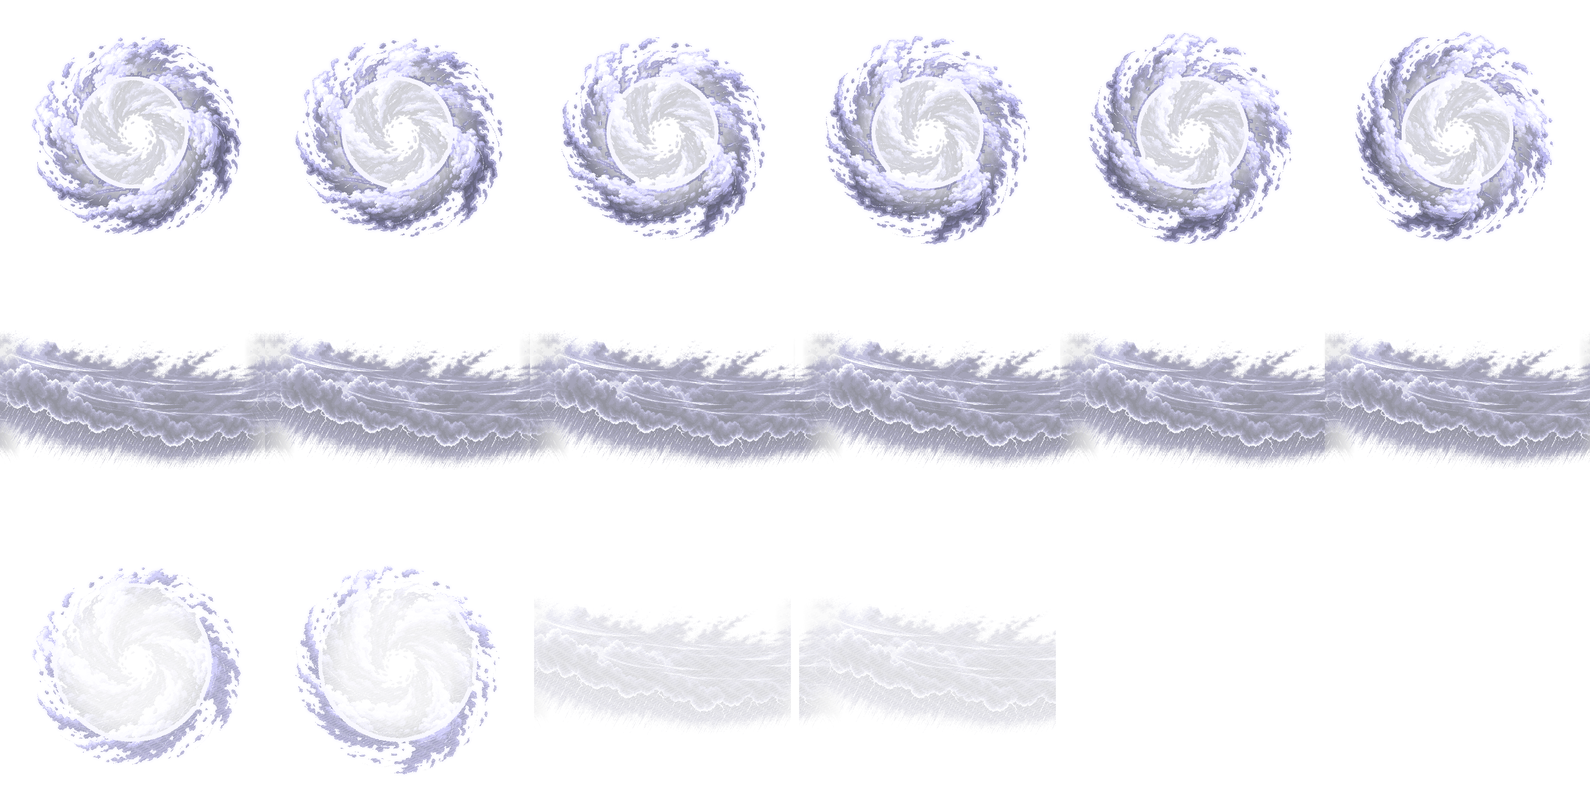
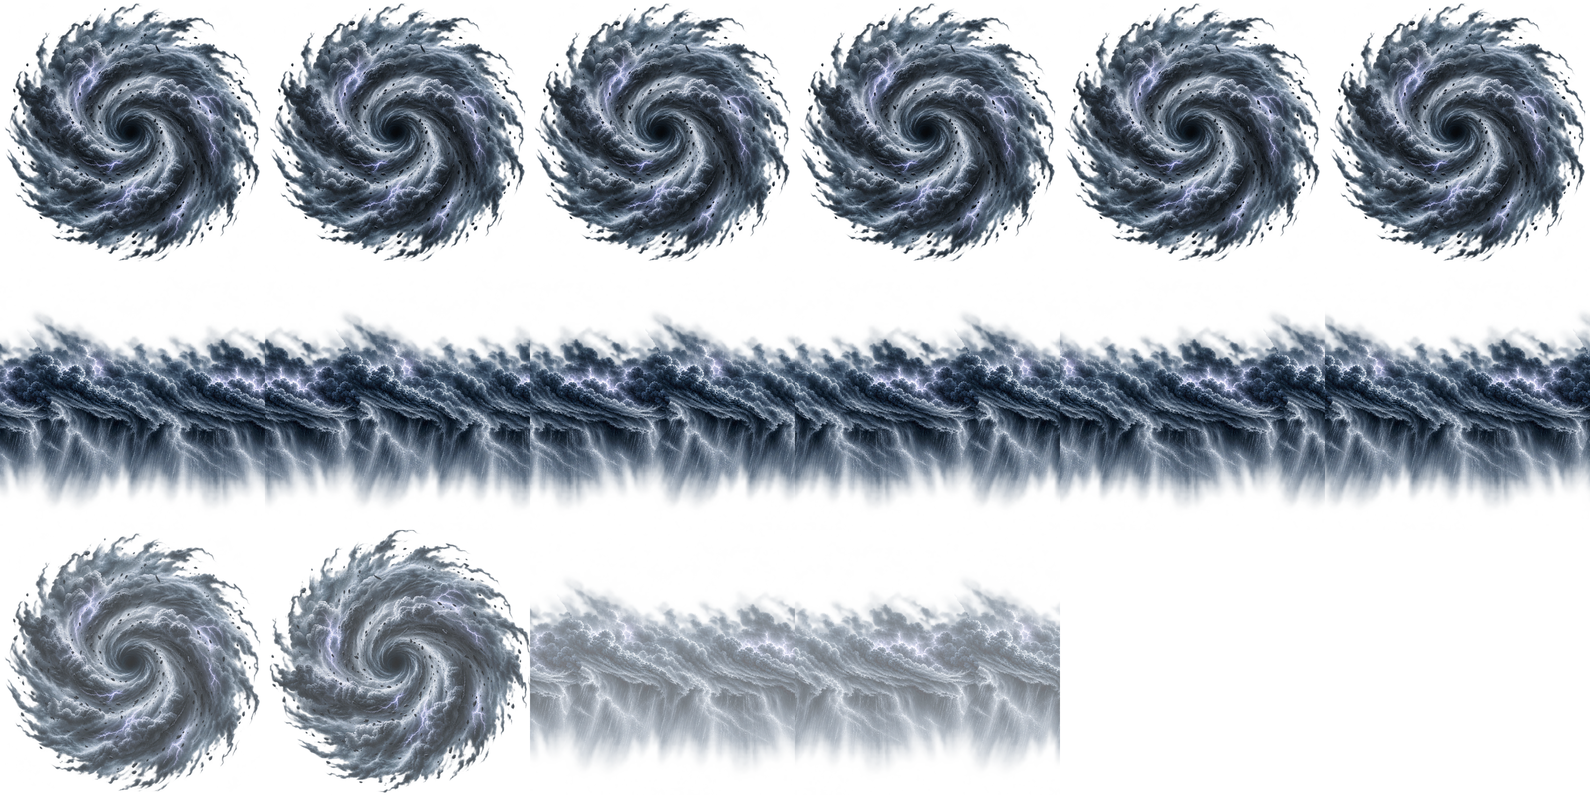
Storm landmarks and hazard sheet restyle: asymmetric lit anvil thunderheads, weathered steel masts, skyhooks, refineries, docks, gantry, turbine raft and relay dish, top-down tornado vortex and squall front, all painted by Codex

diff --git a/Pause/Assets/Art/Worlds/Storm/backdrop_v4~/restyle_landmarks/src~/build_lm_haz.py b/Pause/Assets/Art/Worlds/Storm/backdrop_v4~/restyle_landmarks/src~/build_lm_haz.py
@@ -1,0 +1,138 @@
+"""Storm landmarks + hazard sheet build: slices Codex's painted sheets into the existing atlas cells (JSON untouched). Layout/fit/loop
+(rotate, roll, wrap-cut) only; every pixel of art comes from Codex.
+
+    python3 build_lm_haz.py <src~ dir> <Backdrop3 dir>
+"""
+import sys, json
+from pathlib import Path
+import numpy as np
+from PIL import Image
+
+SRC = Path(sys.argv[1]); DST = Path(sys.argv[2])
+
+def load(name):
+    im = Image.open(SRC / (name + ".png")).convert("RGBA")
+    return np.asarray(im).astype(np.float32) / 255
+
+def to_img(a):
+    return Image.fromarray(np.rint(np.clip(a, 0, 1) * 255).astype(np.uint8), "RGBA")
+
+def cells(a, cols, rows):
+    h, w = a.shape[:2]; ch, cw = h // rows, w // cols
+    return [a[r * ch:(r + 1) * ch, c * cw:(c + 1) * cw] for r in range(rows) for c in range(cols)]
+
+def bbox(a, thr=.06):
+    ys, xs = np.where(a[..., 3] > thr)
+    return ys.min(), ys.max() + 1, xs.min(), xs.max() + 1
+
+def scaled(a, s):
+    im = to_img(a)
+    return im.resize((max(1, round(im.width * s)), max(1, round(im.height * s))), Image.LANCZOS)
+
+def fit(c, w, h, margin=.05):
+    y0, y1, x0, x1 = bbox(c); t = c[y0:y1, x0:x1]
+    s = min(w * (1 - margin) / t.shape[1], h * (1 - margin) / t.shape[0])
+    return scaled(t, s)
+
+def put_center(sheet, im, cx, cy):
+    sheet.alpha_composite(im, (int(round(cx - im.width / 2)), int(round(cy - im.height / 2))))
+
+def despeckle(c, k=6, keep=.04):
+    """Drop stray fragments (bits of the neighbouring cell, loose specks): connected pieces under `keep` of the biggest one's mass are removed."""
+    a = c[..., 3] > .06; h, w = a.shape; gh, gw = h // k, w // k
+    g = a[:gh * k, :gw * k].reshape(gh, k, gw, k).any((1, 3))
+    lab = np.zeros((gh, gw), np.int32); sizes = [0]; n = 0
+    for y in range(gh):
+        for x in range(gw):
+            if g[y, x] and lab[y, x] == 0:
+                n += 1; stack = [(y, x)]; lab[y, x] = n; cnt = 0
+                while stack:
+                    cy, cx = stack.pop(); cnt += 1
+                    for dy in (-1, 0, 1):
+                        for dx in (-1, 0, 1):
+                            ny, nx = cy + dy, cx + dx
+                            if 0 <= ny < gh and 0 <= nx < gw and g[ny, nx] and lab[ny, nx] == 0:
+                                lab[ny, nx] = n; stack.append((ny, nx))
+                sizes.append(cnt)
+    if n < 2: return c
+    big = max(sizes[1:]); good = np.zeros(n + 1, bool)
+    for i in range(1, n + 1): good[i] = sizes[i] >= keep * big
+    m = good[lab]
+    m = np.kron(m, np.ones((k, k), bool)); full = np.zeros((h, w), bool); full[:m.shape[0], :m.shape[1]] = m
+    # grow the kept region by one block so soft edges survive
+    from numpy import roll
+    grown = full.copy()
+    for s in (k, -k):
+        grown |= np.roll(full, s, 0) | np.roll(full, s, 1)
+    out = c.copy(); out[..., 3] *= grown
+    return out
+
+def fill_landmarks():
+    j = json.load(open(DST / "landmarks.json")); sheet = Image.open(DST / "landmarks.png").convert("RGBA"); H = sheet.height
+    by = {s["n"]: s for s in j["sprites"]}
+    maps = {"lm_anvils": ["anvil_tower_00", "anvil_tower_01", "anvil_tower_02", "anvil_tower_03"],
+            "lm_masts": ["spire_00", "spire_01", "skyhook_00", "skyhook_01"],
+            "lm_refineries": ["refinery_float_00", "refinery_float_01", "refinery_float_02", "siphon_tower_00"],
+            "lm_docks": ["airship_dock_00", "gantry_00", "turbine_raft_00", "relay_dish_00"]}
+    for sname, names in maps.items():
+        if not (SRC / (sname + ".png")).exists():
+            print("missing", sname); continue
+        for n, c in zip(names, [despeckle(x) for x in cells(load(sname), 2, 2)]):
+            s = by[n]; box = (s["x"], H - s["y"] - s["h"], s["x"] + s["w"], H - s["y"])
+            sheet.paste((0, 0, 0, 0), box)
+            if n.startswith("spire_"):
+                # StormTuning.RodTipY: the rod's tip (topmost solid point) sits at (128, 40) from the cell top, nothing above y=18
+                y0, y1, x0, x1 = bbox(c); core = np.where(c[..., 3] > .5); ty = core[0].min(); tx = int(np.median(core[1][core[0] < ty + 6]))
+                sc = (s["h"] - 8 - 40) / max(1, y1 - ty)
+                t = c[ty:y1, x0:x1]; im = scaled(t, sc); left = 128 - round((tx - x0) * sc)
+                im = im.crop((max(0, -left), 0, min(im.width, s["w"] - left), im.height))
+                cell = Image.new("RGBA", (s["w"], s["h"])); cell.alpha_composite(im, (max(0, left), 40)); sheet.alpha_composite(cell, box[:2]); continue
+            im = fit(c, s["w"], s["h"]); put_center(sheet, im, s["x"] + s["w"] / 2, H - s["y"] - s["h"] / 2)
+    sheet.save(DST / "landmarks.png")
+
+def min_cut(err):
+    O, L = err.shape; cost = np.empty_like(err, dtype=np.float64); cost[:, 0] = err[:, 0]
+    for i in range(1, L):
+        p = cost[:, i - 1]
+        cost[:, i] = err[:, i] + np.minimum(p, np.minimum(np.concatenate(([np.inf], p[:-1])), np.concatenate((p[1:], [np.inf]))))
+    r = np.empty(L, np.int32); r[-1] = int(np.argmin(cost[:, -1]))
+    for i in range(L - 2, -1, -1):
+        jj = r[i + 1]; lo, hi = max(0, jj - 1), min(O, jj + 2); r[i] = lo + int(np.argmin(cost[lo:hi, i]))
+    return r
+
+def wrap_tile(a, size=1024, ov=200):
+    """Make a horizontally seamless size x size RGBA tile from a (size+ov) wide crop, cutting along a min-error path."""
+    h, w = a.shape[:2]; y0 = (h - size) // 2; x0 = (w - size - ov) // 2
+    c = a[y0:y0 + size, x0:x0 + size + ov]
+    left = c[:, :ov]; extra = c[:, size:size + ov]
+    err = np.abs(left - extra).sum(-1).T; k = np.ones(5, np.float32) / 5
+    err = np.apply_along_axis(lambda v: np.convolve(v, k, "same"), 1, err)
+    r = min_cut(err); cols = np.arange(ov)[None, :]
+    strip = np.where((cols < r[:, None])[..., None], extra, left)
+    out = c[:, :size].copy(); out[:, :ov] = strip
+    return out
+
+def fill_hazard():
+    swirl_p, front_p = SRC / "hz_swirl.png", SRC / "hz_front.png"
+    sheet = Image.open(DST / "wx_hazard.png").convert("RGBA")
+    def put(r, c, im): 
+        box = (c * 512, r * 512, c * 512 + 512, r * 512 + 512); sheet.paste((0, 0, 0, 0), box); sheet.alpha_composite(im, box[:2])
+    if swirl_p.exists():
+        a = load("hz_swirl"); y0, y1, x0, x1 = bbox(a); t = to_img(a[y0:y1, x0:x1]); s = 500 / max(t.width, t.height)
+        t = t.resize((round(t.width * s), round(t.height * s)), Image.LANCZOS)
+        cell = Image.new("RGBA", (512, 512)); cell.alpha_composite(t, ((512 - t.width) // 2, (512 - t.height) // 2))
+        for col in range(6): put(0, col, cell)            # the game turns the body itself; the loop frames are the same painting
+        for col in (0, 1):                                  # warning cells: the gathering vortex, fainter, two turns
+            w = cell.rotate(30 * col, resample=Image.BICUBIC); arr = np.asarray(w).astype(np.float32) / 255; arr[..., 3] *= .8
+            put(2, col, to_img(arr))
+    if front_p.exists():
+        a = load("hz_front"); tile = wrap_tile(a)
+        tile = np.asarray(to_img(tile).resize((512, 512), Image.LANCZOS)).astype(np.float32) / 255
+        for col in range(6):
+            put(1, col, to_img(np.roll(tile, round(col * 512 / 6), axis=1)))        # a drifting loop: the tile wraps seamlessly
+        for col in (2, 3):
+            arr = np.roll(tile, round((col - 2) * 256), axis=1).copy(); arr[..., 3] *= .55; put(2, col, to_img(arr))
+    sheet.save(DST / "wx_hazard.png")
+
+if __name__ == "__main__":
+    fill_landmarks(); fill_hazard()

diff --git a/Pause/Assets/Art/Worlds/Storm/backdrop_v4~/restyle_landmarks/src~/prompt_lm_anvils.md b/Pause/Assets/Art/Worlds/Storm/backdrop_v4~/restyle_landmarks/src~/prompt_lm_anvils.md
@@ -1,0 +1,9 @@
+You are making ONE game-art sheet for "Pause", a vertical phone-portrait 2D shooter, STORM world (a gas-giant thunderstorm flown at atmosphere level, looking down from above). Use your built-in image generation tool for the painted content. Paint ONE SQUARE image as large as the tool allows (about 1254x1254) and save it to the exact output path at the end. Do not edit any other file, do not commit, do not delete anything.
+
+STYLE (important): real, moody, physically believable, painterly hi-res pixel-art-grade with true texture, believable materials, local light from real sources, atmospheric depth. Reference images: s1_supercell (the approved cloud look), new_storm_weather (the approved new weather sprite look), ember_landmarks and verdant_landmarks (the approved landmark style bar from other worlds: believable materials and lighting, no outlines). The reference "OLD_*_do_not_copy" is the look being REPLACED (flat, symmetrical, lumpy navy blobs, cartoon silhouettes, soft outlines): do NOT copy it. Palette: cool desaturated steel-blue, slate, teal-grey, dark graphite metal, white, with pale violet-white lightning glow. NO orange, gold, amber, brass, brown rim light. NO pink or magenta, no red, no green. No outlines or borders.
+
+LAYOUT RULE: the image is a grid; each cell contains ONE separate element, centred in its cell with at least 8 percent empty margin on all sides, nothing touching the cell borders, no grid lines, no labels, no text, no frames, no ground plane, no cast background. Background: genuinely TRANSPARENT (real alpha), nothing behind the elements. Every element in a sheet must have a clearly DIFFERENT silhouette, size and design: never repeat a shape.
+
+LANDMARK SHEET 1 (2x2 grid, 4 cells): four different towering ANVIL THUNDERHEAD storm cells, each seen in an oblique aerial three-quarter view from above, standing as huge solitary storm towers rising from the cloud sea. They must read as real cumulonimbus: a tall churning convective column with an overshooting dome, a wide sheared anvil spreading out at the top and streaming downwind, hard lit tops and deep shadowed undersides, soft noisy irregular edges, lightning flickering INSIDE the cloud mass (cool white and pale violet-white glow through the cloud), and a dark shaft of rain falling from the base. Each one different: (1) a classic tall anvil leaning right with a long sheared spread, (2) a cluster of overshooting domes merging into a lopsided broken anvil, (3) a narrow very tall tower with a torn thin anvil and a strike glowing deep inside, (4) a squat wide shelf-cloud thunderhead with mammatus pouches under the anvil and heavy rain curtains. Asymmetric, NOT mushroom shaped, NOT symmetric, NOT lumpy blobs.
+
+Output: write the final PNG to /Users/sina/Developer/Pause/.claude/ws-storm-hazlm/Pause/Assets/Art/Worlds/Storm/backdrop_v4~/restyle_landmarks/src~/lm_anvils.png

diff --git a/Pause/Assets/Art/Worlds/Storm/backdrop_v4~/restyle_landmarks/src~/prompt_hz_swirl.md b/Pause/Assets/Art/Worlds/Storm/backdrop_v4~/restyle_landmarks/src~/prompt_hz_swirl.md
@@ -1,0 +1,9 @@
+You are making ONE game-art sheet for "Pause", a vertical phone-portrait 2D shooter, STORM world (a gas-giant thunderstorm flown at atmosphere level, looking down from above). Use your built-in image generation tool for the painted content. Paint ONE SQUARE image as large as the tool allows (about 1254x1254) and save it to the exact output path at the end. Do not edit any other file, do not commit, do not delete anything.
+
+STYLE (important): real, moody, physically believable, painterly hi-res pixel-art-grade with true texture, believable materials, local light from real sources, atmospheric depth. Reference images: s1_supercell (the approved cloud look), new_storm_weather (the approved new weather sprite look), ember_landmarks and verdant_landmarks (the approved landmark style bar from other worlds: believable materials and lighting, no outlines). The reference "OLD_*_do_not_copy" is the look being REPLACED (flat, symmetrical, lumpy navy blobs, cartoon silhouettes, soft outlines): do NOT copy it. Palette: cool desaturated steel-blue, slate, teal-grey, dark graphite metal, white, with pale violet-white lightning glow. NO orange, gold, amber, brass, brown rim light. NO pink or magenta, no red, no green. No outlines or borders.
+
+LAYOUT RULE: the image is a grid; each cell contains ONE separate element, centred in its cell with at least 8 percent empty margin on all sides, nothing touching the cell borders, no grid lines, no labels, no text, no frames, no ground plane, no cast background. Background: genuinely TRANSPARENT (real alpha), nothing behind the elements. Every element in a sheet must have a clearly DIFFERENT silhouette, size and design: never repeat a shape.
+
+TORNADO VORTEX (single element, centred, filling about 90 percent of the square): a realistic TOP-DOWN view of a violent tornado or cyclone vortex seen from straight above: a dark calm eye in the centre, tight spiral arms of dark storm cloud and wind-torn debris spiralling in, ragged soft noisy outer arms thinning to transparent at the edge (no hard circle edge, no ring outline), subtle cool white and pale violet-white lightning veins glowing inside the arms, steel-blue and slate colours, volumetric, ~12 percent of arms catching cool pale light. It must be roughly circular and fade to fully transparent before the edge of the image. It will be rotated by the game, so spiral arms must read in any orientation.
+
+Output: write the final PNG to /Users/sina/Developer/Pause/.claude/ws-storm-hazlm/Pause/Assets/Art/Worlds/Storm/backdrop_v4~/restyle_landmarks/src~/hz_swirl.png

diff --git a/Pause/Assets/Art/Worlds/Storm/backdrop_v4~/restyle_landmarks/src~/prompt_lm_masts.md b/Pause/Assets/Art/Worlds/Storm/backdrop_v4~/restyle_landmarks/src~/prompt_lm_masts.md
@@ -1,0 +1,9 @@
+You are making ONE game-art sheet for "Pause", a vertical phone-portrait 2D shooter, STORM world (a gas-giant thunderstorm flown at atmosphere level, looking down from above). Use your built-in image generation tool for the painted content. Paint ONE SQUARE image as large as the tool allows (about 1254x1254) and save it to the exact output path at the end. Do not edit any other file, do not commit, do not delete anything.
+
+STYLE (important): real, moody, physically believable, painterly hi-res pixel-art-grade with true texture, believable materials, local light from real sources, atmospheric depth. Reference images: s1_supercell (the approved cloud look), new_storm_weather (the approved new weather sprite look), ember_landmarks and verdant_landmarks (the approved landmark style bar from other worlds: believable materials and lighting, no outlines). The reference "OLD_*_do_not_copy" is the look being REPLACED (flat, symmetrical, lumpy navy blobs, cartoon silhouettes, soft outlines): do NOT copy it. Palette: cool desaturated steel-blue, slate, teal-grey, dark graphite metal, white, with pale violet-white lightning glow. NO orange, gold, amber, brass, brown rim light. NO pink or magenta, no red, no green. No outlines or borders.
+
+LAYOUT RULE: the image is a grid; each cell contains ONE separate element, centred in its cell with at least 8 percent empty margin on all sides, nothing touching the cell borders, no grid lines, no labels, no text, no frames, no ground plane, no cast background. Background: genuinely TRANSPARENT (real alpha), nothing behind the elements. Every element in a sheet must have a clearly DIFFERENT silhouette, size and design: never repeat a shape.
+
+LANDMARK SHEET 2 (2x2 grid, 4 cells): cells 1-2: two different LIGHTNING-ROD MASTS: tall slender weathered dark steel lattice masts on a small floating platform, with a pale violet-white corona glowing at the tip (St Elmo's fire), guy wires, a few small lit windows (pale cool white) and storm wear; different heights and shapes. Cells 3-4: two different SKYHOOK anchors: a large floating balloon-borne mooring anchor with a heavy steel hook and cables dangling, lit by a few cool white lamps, one with three envelopes and one with a single big envelope; weathered, asymmetric. Oblique aerial three-quarter view from above. Cool steel and slate metal, no orange or brass.
+
+Output: write the final PNG to /Users/sina/Developer/Pause/.claude/ws-storm-hazlm/Pause/Assets/Art/Worlds/Storm/backdrop_v4~/restyle_landmarks/src~/lm_masts.png

diff --git a/Pause/Assets/Art/Worlds/Storm/backdrop_v4~/restyle_landmarks/src~/prompt_hz_front.md b/Pause/Assets/Art/Worlds/Storm/backdrop_v4~/restyle_landmarks/src~/prompt_hz_front.md
@@ -1,0 +1,9 @@
+You are making ONE game-art sheet for "Pause", a vertical phone-portrait 2D shooter, STORM world (a gas-giant thunderstorm flown at atmosphere level, looking down from above). Use your built-in image generation tool for the painted content. Paint ONE SQUARE image as large as the tool allows (about 1254x1254) and save it to the exact output path at the end. Do not edit any other file, do not commit, do not delete anything.
+
+STYLE (important): real, moody, physically believable, painterly hi-res pixel-art-grade with true texture, believable materials, local light from real sources, atmospheric depth. Reference images: s1_supercell (the approved cloud look), new_storm_weather (the approved new weather sprite look), ember_landmarks and verdant_landmarks (the approved landmark style bar from other worlds: believable materials and lighting, no outlines). The reference "OLD_*_do_not_copy" is the look being REPLACED (flat, symmetrical, lumpy navy blobs, cartoon silhouettes, soft outlines): do NOT copy it. Palette: cool desaturated steel-blue, slate, teal-grey, dark graphite metal, white, with pale violet-white lightning glow. NO orange, gold, amber, brass, brown rim light. NO pink or magenta, no red, no green. No outlines or borders.
+
+LAYOUT RULE: the image is a grid; each cell contains ONE separate element, centred in its cell with at least 8 percent empty margin on all sides, nothing touching the cell borders, no grid lines, no labels, no text, no frames, no ground plane, no cast background. Background: genuinely TRANSPARENT (real alpha), nothing behind the elements. Every element in a sheet must have a clearly DIFFERENT silhouette, size and design: never repeat a shape.
+
+SQUALL FRONT TILE (single element): a realistic wide band of gust-front shelf cloud and rain, seen from above at an oblique angle, running horizontally across the WHOLE width of the square: a rolled, ragged dark storm shelf along the upper half with noisy soft edges, rain curtains falling below it, and wind-torn spray. It must tile SEAMLESSLY left to right: the left and right edges of the image must match exactly (the content continues across the edges and nothing is cut off). Vertically, content sits in the middle 60 percent and fades to fully transparent above and below. Colours: slate, steel-blue, dark graphite and white-grey spray; low brightness.
+
+Output: write the final PNG to /Users/sina/Developer/Pause/.claude/ws-storm-hazlm/Pause/Assets/Art/Worlds/Storm/backdrop_v4~/restyle_landmarks/src~/hz_front.png

diff --git a/Pause/Assets/Art/Worlds/Storm/backdrop_v4~/restyle_landmarks/src~/prompt_lm_refineries.md b/Pause/Assets/Art/Worlds/Storm/backdrop_v4~/restyle_landmarks/src~/prompt_lm_refineries.md
@@ -1,0 +1,9 @@
+You are making ONE game-art sheet for "Pause", a vertical phone-portrait 2D shooter, STORM world (a gas-giant thunderstorm flown at atmosphere level, looking down from above). Use your built-in image generation tool for the painted content. Paint ONE SQUARE image as large as the tool allows (about 1254x1254) and save it to the exact output path at the end. Do not edit any other file, do not commit, do not delete anything.
+
+STYLE (important): real, moody, physically believable, painterly hi-res pixel-art-grade with true texture, believable materials, local light from real sources, atmospheric depth. Reference images: s1_supercell (the approved cloud look), new_storm_weather (the approved new weather sprite look), ember_landmarks and verdant_landmarks (the approved landmark style bar from other worlds: believable materials and lighting, no outlines). The reference "OLD_*_do_not_copy" is the look being REPLACED (flat, symmetrical, lumpy navy blobs, cartoon silhouettes, soft outlines): do NOT copy it. Palette: cool desaturated steel-blue, slate, teal-grey, dark graphite metal, white, with pale violet-white lightning glow. NO orange, gold, amber, brass, brown rim light. NO pink or magenta, no red, no green. No outlines or borders.
+
+LAYOUT RULE: the image is a grid; each cell contains ONE separate element, centred in its cell with at least 8 percent empty margin on all sides, nothing touching the cell borders, no grid lines, no labels, no text, no frames, no ground plane, no cast background. Background: genuinely TRANSPARENT (real alpha), nothing behind the elements. Every element in a sheet must have a clearly DIFFERENT silhouette, size and design: never repeat a shape.
+
+LANDMARK SHEET 3 (2x2 grid, 4 cells): cells 1-3: three different FLOATING REFINERIES, aerial three-quarter view from above: weathered steel platforms held up by cloud-borne buoyancy tanks with processing towers, pipe racks, stacks venting pale steam that tears off downwind, a few small cool-white lamps, rivets, panel seams; different layouts (one tall stacked, one long and low, one with a flare stack, flame drawn pale blue-white). Cell 4: a SIPHON TOWER: a tall slim spiral intake tower drawing storm air, with a ring of intake vanes and a trailing vapour wisp. Cool steel, slate, teal-grey, no orange or brass or rust.
+
+Output: write the final PNG to /Users/sina/Developer/Pause/.claude/ws-storm-hazlm/Pause/Assets/Art/Worlds/Storm/backdrop_v4~/restyle_landmarks/src~/lm_refineries.png

diff --git a/Pause/Assets/Art/Worlds/Storm/backdrop_v4~/restyle_landmarks/src~/prompt_lm_docks.md b/Pause/Assets/Art/Worlds/Storm/backdrop_v4~/restyle_landmarks/src~/prompt_lm_docks.md
@@ -1,0 +1,9 @@
+You are making ONE game-art sheet for "Pause", a vertical phone-portrait 2D shooter, STORM world (a gas-giant thunderstorm flown at atmosphere level, looking down from above). Use your built-in image generation tool for the painted content. Paint ONE SQUARE image as large as the tool allows (about 1254x1254) and save it to the exact output path at the end. Do not edit any other file, do not commit, do not delete anything.
+
+STYLE (important): real, moody, physically believable, painterly hi-res pixel-art-grade with true texture, believable materials, local light from real sources, atmospheric depth. Reference images: s1_supercell (the approved cloud look), new_storm_weather (the approved new weather sprite look), ember_landmarks and verdant_landmarks (the approved landmark style bar from other worlds: believable materials and lighting, no outlines). The reference "OLD_*_do_not_copy" is the look being REPLACED (flat, symmetrical, lumpy navy blobs, cartoon silhouettes, soft outlines): do NOT copy it. Palette: cool desaturated steel-blue, slate, teal-grey, dark graphite metal, white, with pale violet-white lightning glow. NO orange, gold, amber, brass, brown rim light. NO pink or magenta, no red, no green. No outlines or borders.
+
+LAYOUT RULE: the image is a grid; each cell contains ONE separate element, centred in its cell with at least 8 percent empty margin on all sides, nothing touching the cell borders, no grid lines, no labels, no text, no frames, no ground plane, no cast background. Background: genuinely TRANSPARENT (real alpha), nothing behind the elements. Every element in a sheet must have a clearly DIFFERENT silhouette, size and design: never repeat a shape.
+
+LANDMARK SHEET 4 (2x2 grid, 4 cells): four different storm-world structures floating in the clouds, aerial three-quarter view from above, believable weathered cool steel: (1) an AIRSHIP DOCK: a mooring platform with a moored slim airship lit by cool white lamps; (2) a GANTRY: a tall industrial crane gantry on a floating platform with a hanging cable and hook; (3) a TURBINE RAFT: a floating raft carrying three big wind turbines (blades visible, still); (4) a RELAY DISH: a large radar or relay dish on a lattice mast with a pale blinking lamp. Asymmetric, detailed, not cartoony.
+
+Output: write the final PNG to /Users/sina/Developer/Pause/.claude/ws-storm-hazlm/Pause/Assets/Art/Worlds/Storm/backdrop_v4~/restyle_landmarks/src~/lm_docks.png

diff --git a/Pause/Assets/Art/Worlds/Storm/backdrop_v4~/restyle_landmarks/src~/common.md b/Pause/Assets/Art/Worlds/Storm/backdrop_v4~/restyle_landmarks/src~/common.md
@@ -1,0 +1,5 @@
+You are making ONE game-art sheet for "Pause", a vertical phone-portrait 2D shooter, STORM world (a gas-giant thunderstorm flown at atmosphere level, looking down from above). Use your built-in image generation tool for the painted content. Paint ONE SQUARE image as large as the tool allows (about 1254x1254) and save it to the exact output path at the end. Do not edit any other file, do not commit, do not delete anything.
+
+STYLE (important): real, moody, physically believable, painterly hi-res pixel-art-grade with true texture, believable materials, local light from real sources, atmospheric depth. Reference images: s1_supercell (the approved cloud look), new_storm_weather (the approved new weather sprite look), ember_landmarks and verdant_landmarks (the approved landmark style bar from other worlds: believable materials and lighting, no outlines). The reference "OLD_*_do_not_copy" is the look being REPLACED (flat, symmetrical, lumpy navy blobs, cartoon silhouettes, soft outlines): do NOT copy it. Palette: cool desaturated steel-blue, slate, teal-grey, dark graphite metal, white, with pale violet-white lightning glow. NO orange, gold, amber, brass, brown rim light. NO pink or magenta, no red, no green. No outlines or borders.
+
+LAYOUT RULE: the image is a grid; each cell contains ONE separate element, centred in its cell with at least 8 percent empty margin on all sides, nothing touching the cell borders, no grid lines, no labels, no text, no frames, no ground plane, no cast background. Background: genuinely TRANSPARENT (real alpha), nothing behind the elements. Every element in a sheet must have a clearly DIFFERENT silhouette, size and design: never repeat a shape.
